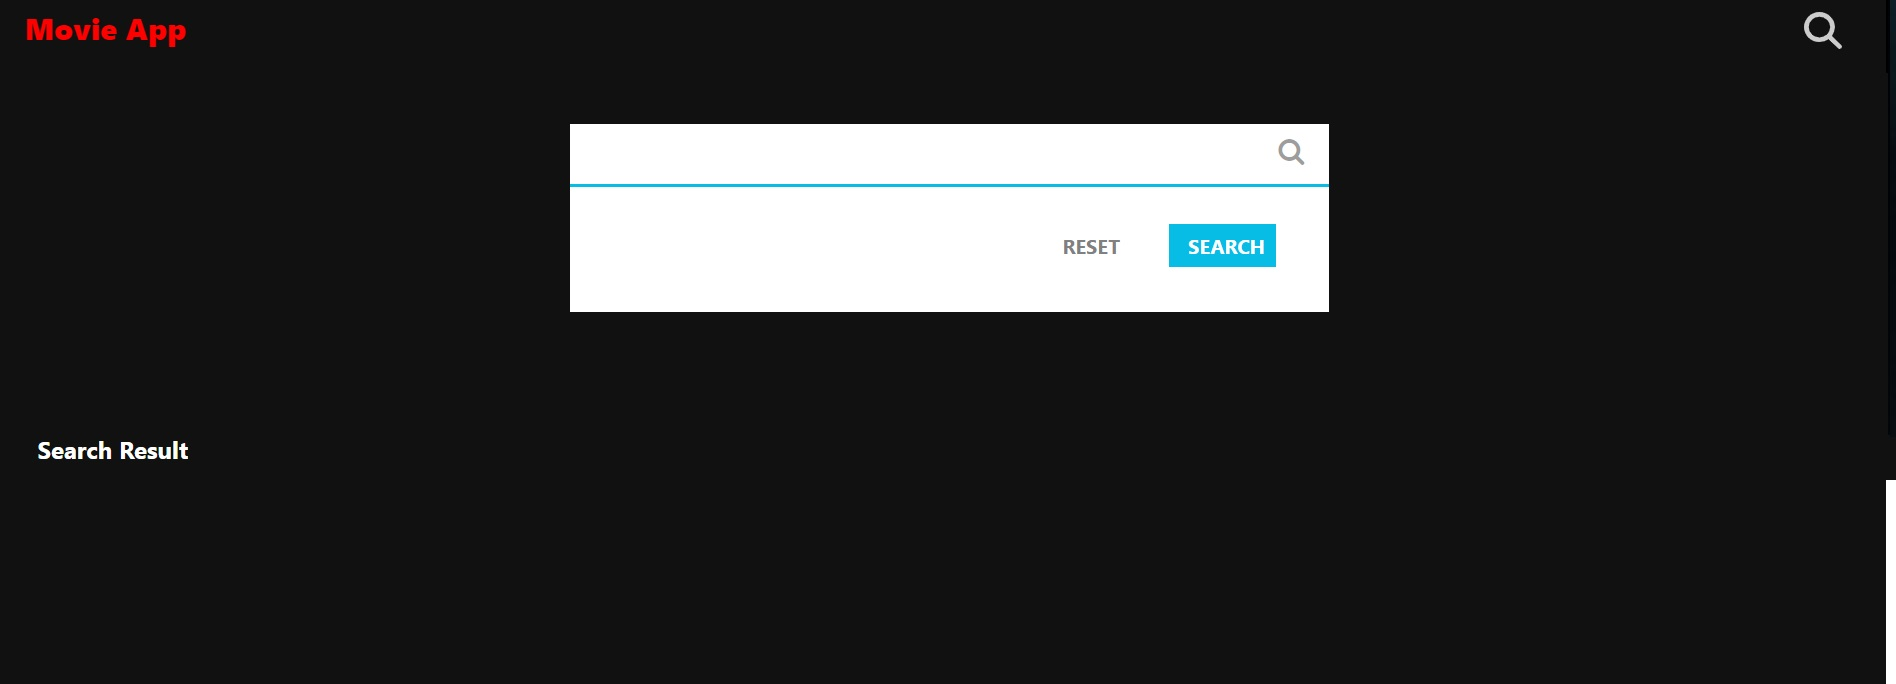
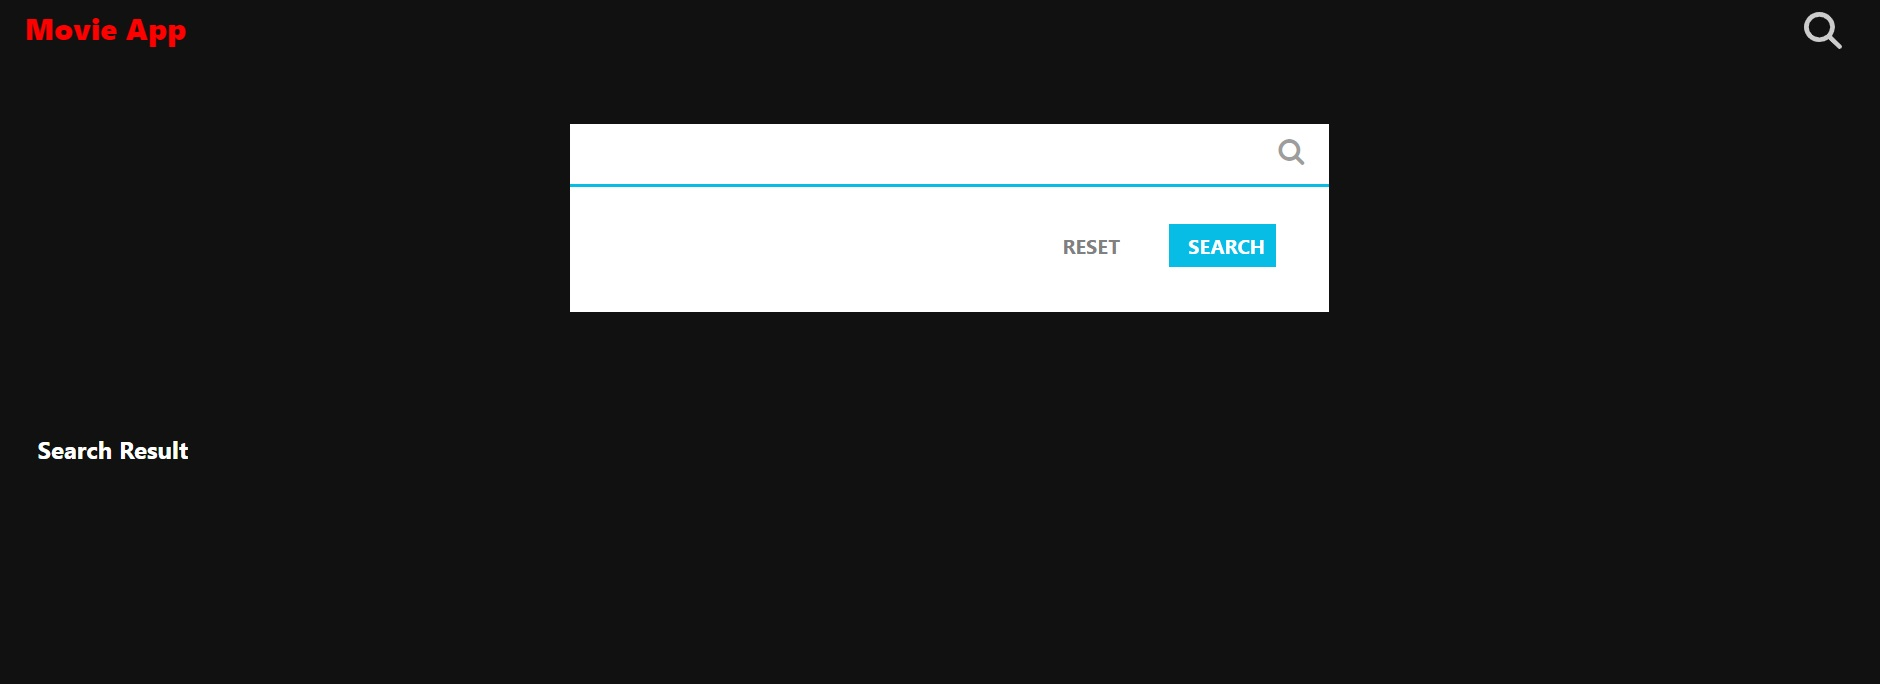
comlete Project

diff --git a/src/Component/ResultList.module.css b/src/Component/ResultList.module.css
@@ -1,6 +1,6 @@
 .resultList{
     position: absolute;
-    height:1000px;
+    height:1500px;
     width:100%;
     background-color: rgb(17,17,17);
     color:white;

diff --git a/README.md b/README.md
@@ -3,3 +3,28 @@
  20/09/2022 - 06/10/2022
 ## Link demo
 [View demo](https://movie-introduced-website.vercel.app/)
+
+## Overview
+This project helps viewers to know about newly released movies by watching trailers directly on the website and through movie information. In addition, viewers can also watch movie introductions and vote rate. Furthermore, the website categorizes movies into topics to make it easier for viewers to follow new and popular movies.
+
+## Program Language
+HTML, CSS, Javascript, React, React-Router, Bootstrap
+
+## Home Page
+ - On the homepage, viewers can see an overview of the list of newly updated movies, categorized by trending, high ratings, action, comedy, horror, romance, and documentary.
+ 
+ ![View Image](./src/Resource/Readme_1.jpg)
+ 
+ - Besides, you can also view details about the movie information and watch trailers or teasers directly on the website by clicking on that movie.
+
+  ![View Image](./src/Resource/Readme_2.jpg)
+
+ ## Search Page
+
+- On the Search Page, there is an input box where you can search for a movie by entering keywords and clicking on the search button.
+
+ ![View Image](./src/Resource/Readme_3.jpg)
+
+- In addition, you can view details of the movie and watch trailers or teasers directly on the search page by clicking on the movie.
+
+ ![View Image](./src/Resource/Readme_4.jpg)
